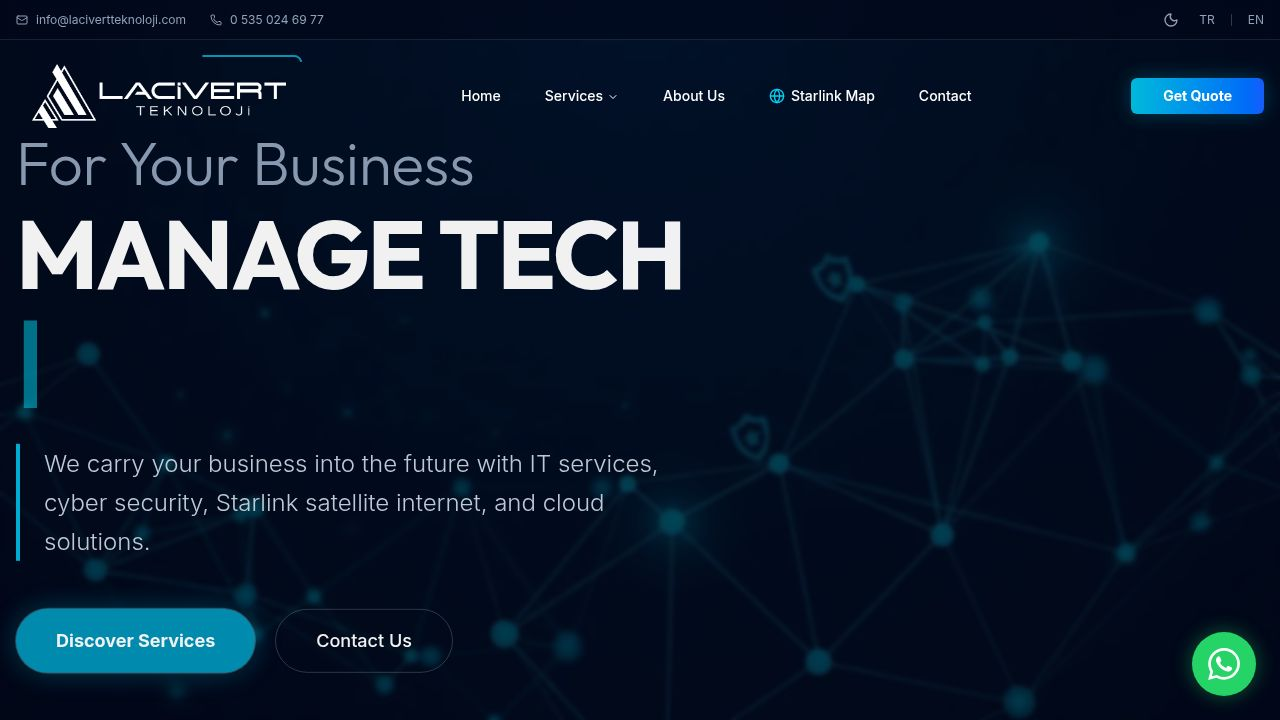
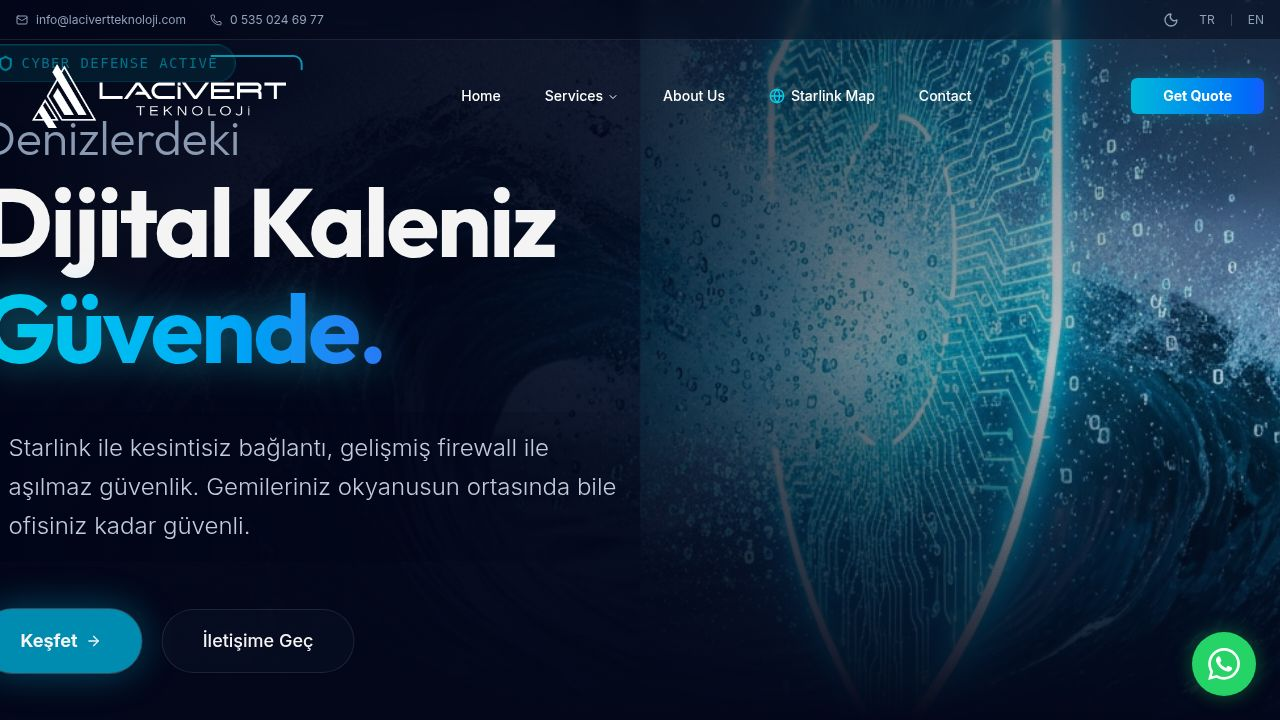
Update the homepage to showcase a digital shield protecting ocean waves
Replace the existing hero section video with a static image representing a digital shield protecting against ocean waves.

Replit-Commit-Author: Agent
Replit-Commit-Session-Id: e3f371db-87bc-4b93-84f9-f13ba1154906
Replit-Commit-Checkpoint-Type: full_checkpoint
Replit-Commit-Event-Id: 734002aa-966a-42ab-b6c0-c70be5f512a3
Replit-Commit-Screenshot-Url: https://storage.googleapis.com/screenshot-production-us-central1/25f367d5-627a-408f-b7a2-ca9c6b660cac/e3f371db-87bc-4b93-84f9-f13ba1154906/XyrGDYc
Replit-Helium-Checkpoint-Created: true

diff --git a/client/src/pages/Home.tsx b/client/src/pages/Home.tsx
@@ -2,7 +2,7 @@ import { Button } from "@/components/ui/button";
 import { Shield, Server, Wifi, Cloud, ArrowRight, Anchor, Building2, Factory, Zap, Radio, Globe, Satellite, Cpu, Activity, CheckCircle2 } from "lucide-react";
 import { Link } from "wouter";
 import { SEO } from "@/components/SEO";
-import heroBg from "@assets/generated_images/futuristic_navy_blue_technology_network_background.webp";
+import heroBg from "@assets/generated_images/digital_cyber_shield_protecting_ocean_waves.png";
 import heroVideo from "@assets/generated_videos/abstract_navy_blue_cyber_security_network_background.mp4";
 import globalNetBg from "@assets/generated_images/abstract_dark_global_network_map_with_glowing_connections.webp";
 import { useTranslation } from "react-i18next";
@@ -86,49 +86,73 @@ export default function Home() {
         title={t('nav.home')} 
         description={t('home.hero_desc')} 
       />
-      {/* Hero Section - KEPT AS IS */}
+      {/* Hero Section - Concept 2: Digital Shield */}
       <section className="relative h-screen flex items-center overflow-hidden bg-slate-950">
         <div className="absolute inset-0 z-0">
-          <video 
-            autoPlay 
-            loop 
-            muted 
-            playsInline
-            className="w-full h-full object-cover"
-            poster={heroBg}
-          >
-            <source src={heroVideo} type="video/mp4" />
-          </video>
-          <div className="absolute inset-0 bg-slate-950/70 backdrop-blur-[2px]"></div>
+          <div 
+            className="absolute inset-0 bg-cover bg-center bg-no-repeat transform scale-105"
+            style={{ backgroundImage: `url(${heroBg})` }}
+          ></div>
+          <div className="absolute inset-0 bg-gradient-to-r from-slate-950 via-slate-950/80 to-transparent"></div>
+          <div className="absolute inset-0 bg-gradient-to-t from-slate-950 via-transparent to-slate-950/30"></div>
+          
+          {/* Animated Overlay Effects */}
+          <div className="absolute inset-0 opacity-20 bg-[url('https://grainy-gradients.vercel.app/noise.svg')] brightness-100 contrast-150 mix-blend-overlay"></div>
         </div>
         
         <div className="container mx-auto px-4 relative z-10 pt-20">
-          <div className="max-w-4xl animate-in slide-in-from-bottom-10 fade-in duration-1000">
+          <div className="max-w-4xl animate-in slide-in-from-left fade-in duration-1000">
             
-            <h1 className="text-5xl sm:text-7xl md:text-8xl font-heading font-bold text-white mb-8 leading-[1.1] tracking-tight">
-              <span className="block text-slate-400 text-4xl sm:text-5xl md:text-6xl font-light tracking-normal mb-2">{t('home.hero_title_prefix')}</span>
-              {t('home.hero_title_main')} <br/>
-              <span>
-                <TypewriterText text={t('home.hero_typewriter')} delay={1000} />
+            <div className="inline-flex items-center gap-2 px-4 py-2 rounded-full bg-cyan-950/50 border border-cyan-500/30 text-cyan-400 font-mono text-sm tracking-widest uppercase mb-8 backdrop-blur-md animate-in fade-in slide-in-from-bottom-4 duration-700 delay-300">
+                <Shield className="w-4 h-4" /> 
+                <span className="animate-pulse">Cyber Defense Active</span>
+            </div>
+
+            <h1 className="text-5xl sm:text-7xl md:text-8xl font-heading font-bold text-white mb-8 leading-[1.1] tracking-tight drop-shadow-2xl">
+              <span className="block text-slate-400 text-3xl sm:text-4xl md:text-5xl font-light tracking-normal mb-2">Denizlerdeki</span>
+              Dijital Kaleniz <br/>
+              <span className="text-transparent bg-clip-text bg-gradient-to-r from-cyan-400 via-sky-400 to-blue-500 filter drop-shadow-[0_0_20px_rgba(34,211,238,0.5)]">
+                Güvende.
               </span>
             </h1>
 
-            <p className="text-lg md:text-2xl text-slate-300 mb-12 leading-relaxed max-w-2xl font-light border-l-4 border-cyan-500 pl-6">
-              {t('home.hero_desc')}
+            <p className="text-lg md:text-2xl text-slate-300 mb-12 leading-relaxed max-w-2xl font-light border-l-4 border-cyan-500 pl-6 bg-gradient-to-r from-slate-950/80 to-transparent py-4 pr-4 backdrop-blur-sm">
+              Starlink ile kesintisiz bağlantı, gelişmiş firewall ile aşılmaz güvenlik. Gemileriniz okyanusun ortasında bile ofisiniz kadar güvenli.
             </p>
             
             <div className="flex flex-col sm:flex-row gap-5">
-              <Button asChild size="lg" className="text-lg h-16 px-10 bg-cyan-600 hover:bg-cyan-500 text-white font-bold rounded-full shadow-[0_0_30px_rgba(8,145,178,0.4)] transition-all hover:scale-105 border-0 ring-1 ring-white/20">
+              <Button asChild size="lg" className="text-lg h-16 px-10 bg-cyan-600 hover:bg-cyan-500 text-white font-bold rounded-full shadow-[0_0_40px_rgba(8,145,178,0.5)] transition-all hover:scale-105 border-0 ring-1 ring-white/20 group">
                 <Link href="/it-hizmetleri">
-                  {t('home.discover_services')}
+                  <span className="relative z-10 flex items-center gap-2">
+                    Keşfet <ArrowRight className="w-5 h-5 group-hover:translate-x-1 transition-transform" />
+                  </span>
                 </Link>
               </Button>
-              <Button asChild size="lg" variant="outline" className="text-lg h-16 px-10 border-white/20 text-white hover:bg-white/10 hover:text-white backdrop-blur-sm rounded-full transition-all hover:scale-105">
+              <Button asChild size="lg" variant="outline" className="text-lg h-16 px-10 border-white/10 text-white bg-slate-900/40 hover:bg-white/10 backdrop-blur-md rounded-full transition-all hover:scale-105 hover:border-cyan-500/50">
                 <Link href="/iletisim">
-                  {t('home.contact_us')}
+                  İletişime Geç
                 </Link>
               </Button>
             </div>
+            
+            {/* Trust Metrics */}
+            <div className="mt-16 flex items-center gap-8 text-slate-400 text-sm font-mono uppercase tracking-widest">
+                <div className="flex items-center gap-2">
+                    <div className="w-2 h-2 bg-emerald-500 rounded-full animate-pulse"></div>
+                    System Online
+                </div>
+                <div className="h-4 w-px bg-white/10"></div>
+                <div className="flex items-center gap-2">
+                    <Shield className="w-4 h-4 text-cyan-500" />
+                    Secure Link
+                </div>
+                <div className="h-4 w-px bg-white/10"></div>
+                <div className="flex items-center gap-2">
+                    <Globe className="w-4 h-4 text-blue-500" />
+                    Global Coverage
+                </div>
+            </div>
+
           </div>
         </div>
       </section>
